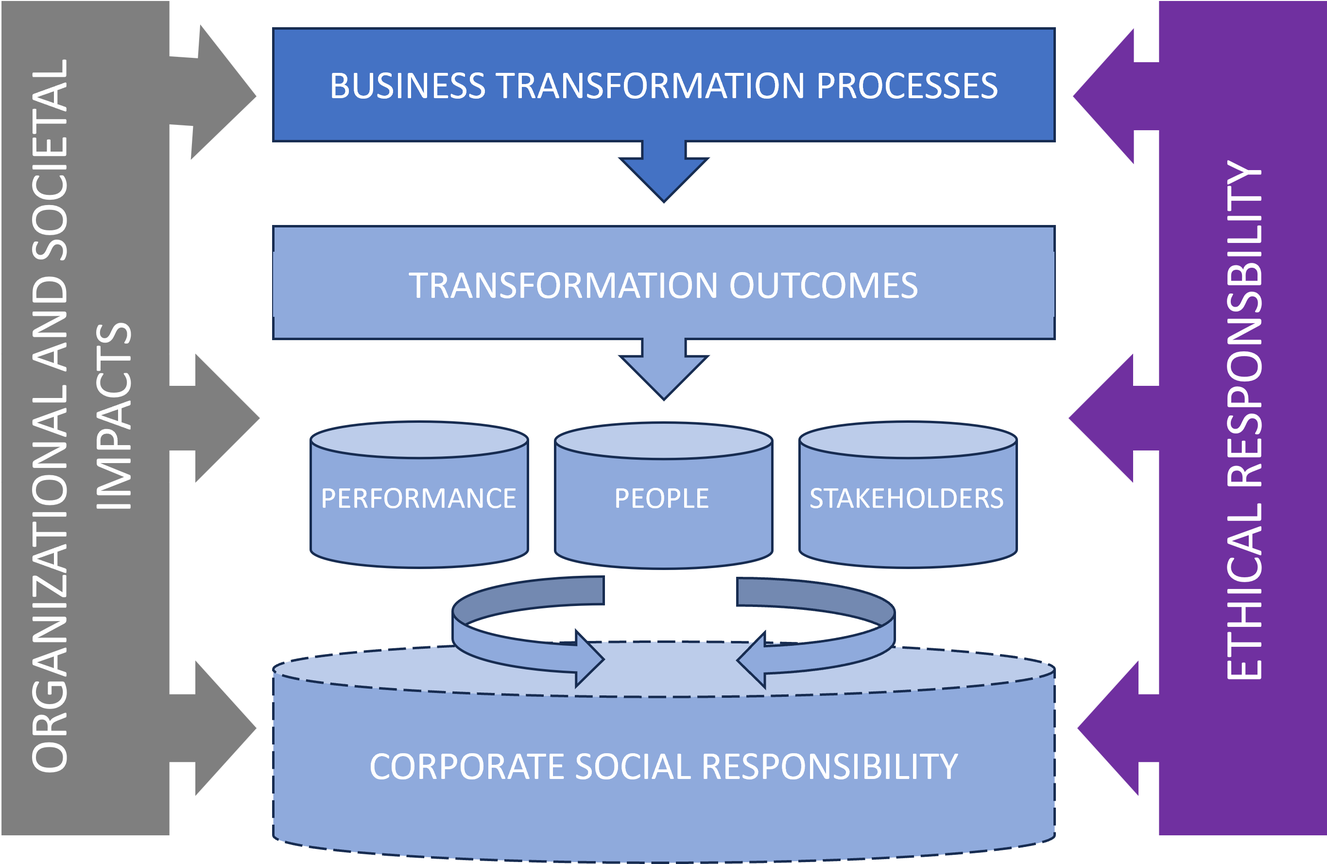
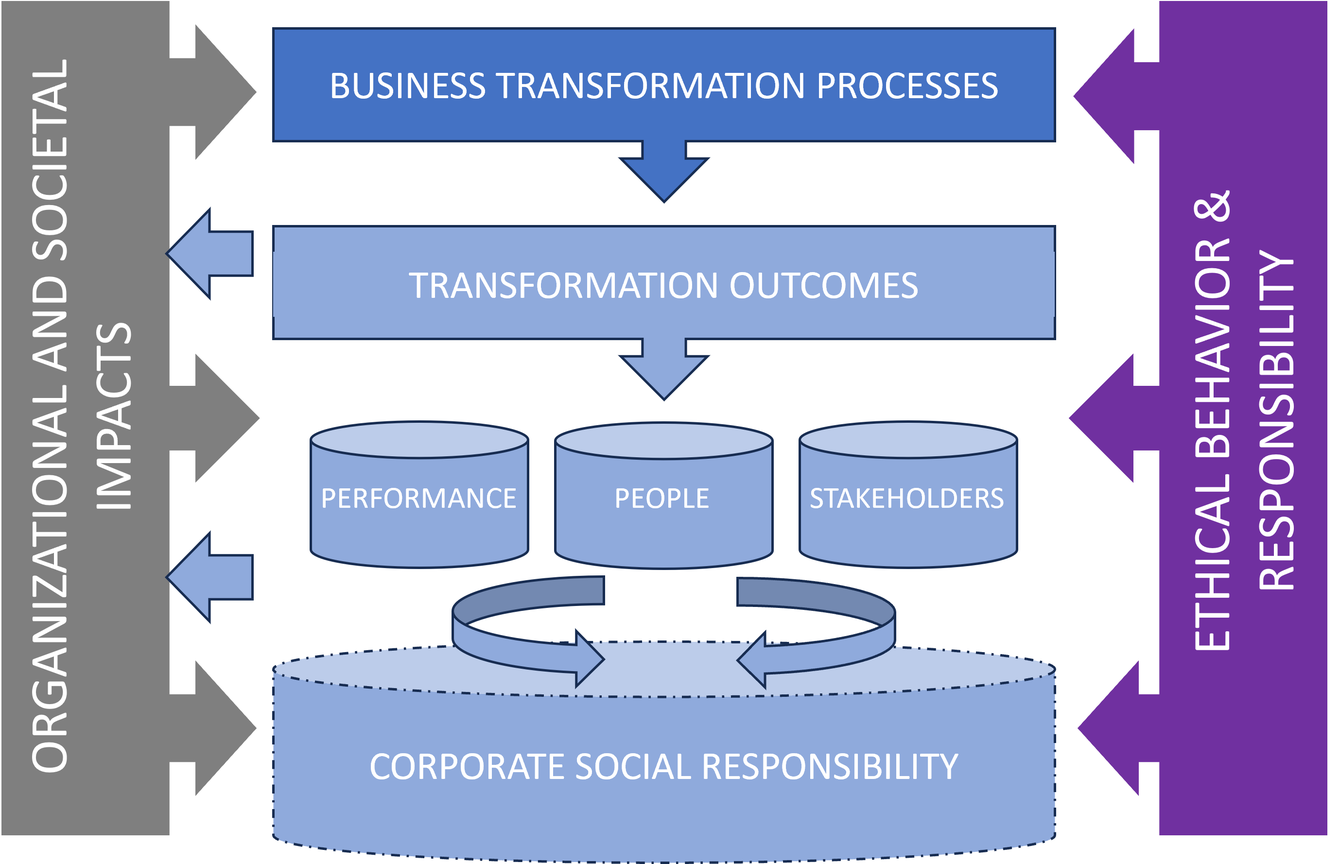
Add rewrite article

diff --git a/public/posts/the-value-of-ethics-as-a-driver-of-business-transformation/index.html b/public/posts/the-value-of-ethics-as-a-driver-of-business-transformation/index.html
@@ -145,57 +145,59 @@
       
     </div>
     <div class="content">
-      <p><strong>Ethical considerations arising from business transformation often go unnoticed by transformational leaders, and even more so by the ICT industry and other key stakeholders who should pay attention to this key driver of transformation.</strong></p>
-<p>However, ethical behavior in business transformation, as in other complex decision-making environments, plays a fundamental role in achieving the expected results and establishing solid foundations on which to build a robust and smooth transformation.</p>
-<p>Through proper examination of the ethical considerations that arise from transformation, transformational leaders can gain new perspectives to understand both the transformation processes themselves and the new organizational and societal impacts that are emerging (Fig.1)</p>
+      <p><strong>Ethical considerations arising from business transformation often go unnoticed by transformational leaders, let alone by the ICT industry and other stakeholders who should pay close attention to this key driver of transformation.</strong></p>
+<p>As elusive as it often seems, ethical behavior and responsibility in business transformation, as in other complex decision-making environments, play a crucial role in helping organizations achieve their business goals and establish a solid foundation on which to build a fluid transformation flow.</p>
+<p>By properly examining the ethical considerations that arise from business transformation, transformational leaders can gain new perspectives to understand both the transformation processes themselves and the new organizational and societal impacts that are emerging as a result of transformation (Fig. 1).</p>
 <img src="index_files/the-value-of-ethics-1.png" alt="Ethical responsibility"/>
-<p>Fig.1 Ethical responsibility within the framework of business transformation (Source: own elaboration)</p>
+<p>Fig.1 The ethical dimension within the framework of business transformation (Source: own elaboration)</p>
 <h2 id="ethics-in-the-era-of-data">Ethics in the Era of Data</h2>
 <p>The importance of ethics becomes more apparent as business transformation becomes more and more data-driven, extends to an ever-increasing number of actors, and becomes deeper and irreversible for most organizations.</p>
-<p>The massive adoption of data by organizations in virtually every industry and the implementation of smart technologies are factors that will drive innovation and support competitive advantage. However, these profound transformation processes are beginning to raise ethical questions that can undermine the credibility of many organizations and call into question the way they are carrying out their transformation roadmap, with its consequential negative impact on performance and results.</p>
+<p>The massive adoption of data by organizations in virtually every industry and the implementation of smart technologies are factors that will drive innovation and support competitive advantage.</p>
+<p>However, these profound transformation processes are beginning to raise ethical issues that, if not adequately addressed, can undermine the credibility of many organizations and call into question the way in which they implement their transformation roadmap, with the consequent negative impact on performance and results.</p>
 <blockquote>
-<p>Failing to address the ethical consideration of transformation can undermine the credibility of many organizations</p>
+<p>Failing to address the ethical considerations of transformation can undermine the credibility of many organizations</p>
 </blockquote>
-<p>Transformational leaders must begin to answer questions like, how are fundamental values such as privacy, security, equality, transparency, and autonomy going to be affected in a world dominated by Big Data and smart technologies? Should some data be a public good? To what extent will consumers be willing to reveal personal data in exchange for making society safer and more efficient?</p>
-<p>Whatever the answers, the bottom line is that transformational leaders need to start deciding how they plan to implement ethical practices within the organization (e.g., ethical Big Data, ethical analytics, ethical AI) and how they are going to be communicated both within and outside the organization.</p>
-<p>Consequently, ethics should be seen as a complementary approach that helps transformational leaders to envision multifaceted perspectives of transformation processes, while being aware that it is a phenomenon that has not yet been studied in depth.</p>
-<p>This does not mean that ethics should be used as a safeguard against the way data-driven transformation is taking place, but rather as an additional dimension that should help organizations strike a better balance between the elements that drive change and those that sustain performance over time.</p>
+<p>Transformational leaders must begin to answer questions like: How are fundamental values such as privacy, security, equality, transparency, and autonomy going to be affected in a world dominated by Big Data and smart technologies? Should some data be a public good? To what extent will consumers be willing to reveal personal data in exchange for making society/business safer and more efficient?</p>
+<p>Whatever the answers, the bottom line is that transformational leaders need to start deciding how they plan to implement ethical practices within the organization (e.g., ethical Big Data, ethical analytics, ethical AI) and how these practices are going to be communicated both within and outside the organization.</p>
+<p>Ultimately, ethics should not be viewed as a burden to be met, but as a complementary approach that will help transformational leaders envision new, multifaceted perspectives on transformation processes. In other words, the above does not mean that ethics should be used as a safeguard against the way (data-driven) transformation is taking place, but rather as an additional dimension that should help organizations strike a better balance between the elements that drive change and those that sustain performance over time.</p>
 <blockquote>
-<p>Ethics should be seen as a complementary approach that helps transformational leaders to envision multifaceted perspectives of transformation</p>
+<p>Ethics should be seen as a complementary approach that helps transformational leaders envision multifaceted perspectives of transformation</p>
 </blockquote>
 <h2 id="ethics-and-employees">Ethics and Employees</h2>
-<p>A key aspect that transformational leaders must pay attention to when dealing with the ethical aspects derived from transformation is the relationship that exists between them and the organization&rsquo;s employees.</p>
+<p>A key aspect that transformational leaders must pay attention to when addressing the ethical considerations that arise from transformation is the relationship that exists between them and the employees of the organization.</p>
 <p>Transformational leaders must strive to ensure that business objectives do not conflict with the moral views of their employees, even though this may sometimes be contradictory to the company&rsquo;s own financial objectives.</p>
-<p>Transformational leaders must seek to align business model decisions with employee values and principles, as well as keep all the capabilities offered by data and smart technologies on the same ethical plane as those who are their users.</p>
-<p>To illustrate the relevance of this topic, take the case of Google and see how the company changed its well-known motto &ldquo;Don&rsquo;t be evil&rdquo; in the 2018 Code of Ethics revision to its equally popular statement: &ldquo;And remember &hellip; don&rsquo;t be evil and if you see something that you think isn&rsquo;t right &ndash; speak up!&rdquo;</p>
+<p>Transformational leaders must seek to align business model decisions with employee values and principles, as well as keep all the capabilities offered by data and smart technologies on the same ethical plane as those of their users.</p>
+<p>To illustrate the relevance of this topic, take the case of Google and see how the company changed its well-known motto “Don’t be evil” in the 2018 Code of Ethics revision to its equally popular statement: “And remember … don’t be evil and if you see something that you think isn’t right – speak up!”</p>
 <p>Despite this powerful claim, the tech company has been criticized many times in recent years by US regulators and its broad community of critics for the way key ethical issues are handled at the corporate level and by its employees.</p>
 <blockquote>
-<p>Transformational leaders must seek to align business model decisions with employee values and principles at all times</p>
+<p>Transformational leaders will seek to align business model decisions with employee values and principles at all times</p>
 </blockquote>
 <h2 id="ethics-and-performance">Ethics and Performance</h2>
-<p>As the business environment becomes more complex, the possibility for a company to maintain full control over its level of performance becomes a challenge. In this context, ethics plays a key role as it can guide transformational leaders in designing and using new technologies and processes that make it easier to achieve short-term goals, while sustaining the company&rsquo;s performance level in the long term.</p>
-<p>For example, some companies may try to increase their proximity to the customer and personalize their experiences by anticipating latent preferences that are not always made explicit through primary and secondary data sources. Although these practices may be profitable for the company&rsquo;s performance in the short term, they are sometimes shown to be undesirable, not because they are illegal, but because some stakeholders consider them morally reprehensible.</p>
+<p>As the business environment becomes more complex, the possibility for a company to maintain full control over its level of performance becomes a challenge. In this context, ethics can guide transformational leaders in the design and use of new technologies and processes that facilitate the achievement of business objectives in the short term, while maintaining the company&rsquo;s level of performance in the long term.</p>
+<p>For example, some companies may try to increase their proximity to the customer and personalize their experiences by anticipating latent preferences that are not always made explicit through primary and secondary data sources. Although these practices may be profitable for the company’s performance in the short term, they are sometimes shown to be undesirable in the long term, not because they are illegal, but because some stakeholders consider them morally reprehensible.</p>
 <blockquote>
-<p>Ethics plays a key role so that transformational leaders can more easily achieve short- and long-term objectives.</p>
+<p>Ethics plays a key role in enabling transformational leaders to more easily achieve short- and long-term business goals</p>
 </blockquote>
 <p>Therefore, transformational leaders must remain vigilant to these risks, as customers and other stakeholders are bound to become critical if certain moral values are violated. In addition, it is important for companies to demonstrate that they are using data responsibly and are not only focused on the business case.</p>
-<p>To properly assess ethical risks, every transformational leader must begin by taking the customer&rsquo;s point of view and asking themselves: Would the customer agree to disclose their data if they knew exactly what was being done with it? What are the possible benefits that customers would be willing to accept to provide their data ?</p>
-<p>Ultimately, transformational leaders must review the ethical foundations currently in force in their organizations (for example, corporate social responsibility) in light of business transformation, incorporating new areas of interest such as ethical performance, data governance, etc. By doing so, companies will gain a much more complete and rich understanding of the transformation phenomenon that will surely allow them to approach the process more successfully.</p>
+<p>To properly assess ethical risks, every transformational leader should begin by taking the customer&rsquo;s point of view and asking themselves: Would the customer agree to disclose their data if they knew exactly what was being done with it? What are the possible benefits that customers would be willing to accept to provide their data ?</p>
+<p>Ultimately, transformational leaders must review the ethical foundations currently in force in their organizations (i.e., corporate social responsibility) in light of business transformation, incorporating new areas of interest such as ethical performance, data governance, etc. By doing so, companies will gain a much more complete and rich understanding of the transformation phenomenon that will surely allow them to approach the change process more successfully.</p>
 <blockquote>
 <p>Transformational leaders must review the ethical foundations currently in force in their organizations in light of business transformation</p>
 </blockquote>
 <h2 id="ethics-and-stakeholders">Ethics and Stakeholders</h2>
 <p>As value creation networks increase in complexity, companies must satisfy the multiple, sometimes contradictory, demands of value co-creators. This issue becomes even more apparent in digital ecosystems such as platforms that, by definition, rely on multiple parties and for which data is at the core of their competitive value proposition.</p>
 <p>Transformational leaders must develop the ability to balance the demands of multiple parties, without compromising the performance of the company or its ability to maintain its competitive advantages over time.</p>
-<p>At times this may require the company to redefine perceptions of what is considered right and wrong. For example, for a platform owner, an ethical challenge may be how to ensure that one party&rsquo;s demands are not met at the expense of others (i.e., if the platform grants access to the data to one party, then the other party should not perceive it as a breach of security and privacy).</p>
+<p>At times this may require the company to redefine perceptions of what is considered right and wrong. For example, for a platform owner, an ethical challenge may be how to ensure that one party’s demands are not met at the expense of others (i.e., if the platform grants access to the data to one party, then the other party should not perceive it as a breach of security and privacy).</p>
 <blockquote>
-<p>Transformational leaders must develop the ability to balance the demands of multiple parties, without compromising the performance of the company</p>
+<p>Transformational leaders must develop the ability to balance the demands of multiple parties, without compromising the overall performance of the company</p>
 </blockquote>
 <h2 id="conclusion">Conclusion</h2>
-<p>The ethical behavior of transformational leaders and people in relation to business transformation has been little studied to date, and there are still many decisions that affect transformation processes whose impact on the results and performance of organizations lacks adequate ethical understanding.</p>
-<p>Most research on transformation in business organizations has focused on the effects it has on innovations, performance, and the factors that affect its adoption among users and consumers, or how it can become a source of competitive advantage. However, most innovations produced by transformation have social and individual impacts of an ethical nature that are much broader and go far beyond simple statements and that transformational leaders must carefully consider.</p>
-<p>If you do not dedicate the necessary attention and the necessary resources that ethics demands, you do not do it with the right approach, or you simply do not do it at the right time, you will see how it has a strong negative impact on the results of your organization.</p>
-<p>Ethics cannot be a matter of trial and error to find the broadest possible limits to impose a business vision, but rather it must be originally incorporated into the transformation plans of organizations by design, putting first the vision of customers, employees, and stakeholders. If you think about sustaining results in the long term, this is the right way to go.</p>
+<p>Ethical considerations in the context of business transformation and the ethical behavior of transformational leaders is a subject that has been little studied to date. In fact, there are still many decisions that affect transformation processes whose impact on the results and performance of organizations lacks an adequate ethical understanding.</p>
+<p>Most research on transformation in business organizations has focused on the effects it has on innovations, performance, and the factors that affect its adoption among users and consumers, or how it can become a source of competitive advantage.</p>
+<p>Nevertheless, most innovations produced by transformation have social and individual impacts of an ethical nature that are much broader and go far beyond simple statements and that transformational leaders must carefully consider.</p>
+<p>If transformational leaders don&rsquo;t commit the necessary attention and resources that ethics demands, don&rsquo;t do it with the right focus, or just don&rsquo;t do it at the right time, they will find ethics becoming an issue with a strong negative impact on organizational results.</p>
+<p>Ethics cannot be a matter of trial and error to find the broadest possible limits to impose a particular business vision regardless of customers, people and stakeholders, but rather it must be originally incorporated into the transformation plans of organizations by design, putting first the vision of customers, people, and stakeholders.</p>
+<p>If you as a trasformational leader think about sustaining results in the long term, this is the right way to go.</p>
 <p style= "font-size:10px;">Photo by <a href="https://www.freepik.es/foto-gratis/naturaleza-muerta-que-ilustra-concepto-etica_26407570.htm#page=2&query=ethics&position=49&from_view=search&track=sph" target="_blank">Freepik</a></p>
 
     </div>
@@ -209,14 +211,14 @@
   </div>
 </a>
 
-<a class="resp-sharing-button__link" href="https://www.linkedin.com/shareArticle?mini=true&amp;url=https%3a%2f%2ffrontiersinbusinesstransformation.com%2fposts%2fthe-value-of-ethics-as-a-driver-of-business-transformation%2f&amp;title=The%20Value%20of%20Ethics%20as%20a%20Driver%20of%20Business%20Transformation&amp;summary=Ethical%20considerations%20arising%20from%20business%20transformation%20often%20go%20unnoticed%20by%20transformational%20leaders%2c%20and%20even%20more%20so%20by%20the%20ICT%20industry%20and%20other%20key%20stakeholders%20who%20should%20pay%20attention%20to%20this%20key%20driver%20of%20transformation.%0aHowever%2c%20ethical%20behavior%20in%20business%20transformation%2c%20as%20in%20other%20complex%20decision-making%20environments%2c%20plays%20a%20fundamental%20role%20in%20achieving%20the%20expected%20results%20and%20establishing%20solid%20foundations%20on%20which%20to%20build%20a%20robust%20and%20smooth%20transformation.%0aThrough%20proper%20examination%20of%20the%20ethical%20considerations%20that%20arise%20from%20transformation%2c%20transformational%20leaders%20can%20gain%20new%20perspectives%20to%20understand%20both%20the%20transformation%20processes%20themselves%20and%20the%20new%20organizational%20and%20societal%20impacts%20that%20are%20emerging%20%28Fig.&amp;source=https%3A%2F%2Ffrontiersinbusinesstransformation.com%2F" target="_blank" rel="noopener" aria-label="">
+<a class="resp-sharing-button__link" href="https://www.linkedin.com/shareArticle?mini=true&amp;url=https%3a%2f%2ffrontiersinbusinesstransformation.com%2fposts%2fthe-value-of-ethics-as-a-driver-of-business-transformation%2f&amp;title=The%20Value%20of%20Ethics%20as%20a%20Driver%20of%20Business%20Transformation&amp;summary=Ethical%20considerations%20arising%20from%20business%20transformation%20often%20go%20unnoticed%20by%20transformational%20leaders%2c%20let%20alone%20by%20the%20ICT%20industry%20and%20other%20stakeholders%20who%20should%20pay%20close%20attention%20to%20this%20key%20driver%20of%20transformation.%0aAs%20elusive%20as%20it%20often%20seems%2c%20ethical%20behavior%20and%20responsibility%20in%20business%20transformation%2c%20as%20in%20other%20complex%20decision-making%20environments%2c%20play%20a%20crucial%20role%20in%20helping%20organizations%20achieve%20their%20business%20goals%20and%20establish%20a%20solid%20foundation%20on%20which%20to%20build%20a%20fluid%20transformation%20flow.&amp;source=https%3A%2F%2Ffrontiersinbusinesstransformation.com%2F" target="_blank" rel="noopener" aria-label="">
   <div class="resp-sharing-button resp-sharing-button--linkedin resp-sharing-button--small"><div aria-hidden="true" class="resp-sharing-button__icon resp-sharing-button__icon--solid">
     <svg xmlns="http://www.w3.org/2000/svg" viewBox="0 0 24 24"><path d="M6.5 21.5h-5v-13h5v13zM4 6.5C2.5 6.5 1.5 5.3 1.5 4s1-2.4 2.5-2.4c1.6 0 2.5 1 2.6 2.5 0 1.4-1 2.5-2.6 2.5zm11.5 6c-1 0-2 1-2 2v7h-5v-13h5V10s1.6-1.5 4-1.5c3 0 5 2.2 5 6.3v6.7h-5v-7c0-1-1-2-2-2z"/></svg>
     </div>
   </div>
 </a>
 
-<a class="resp-sharing-button__link" href="mailto:?subject=Read the article The%20Value%20of%20Ethics%20as%20a%20Driver%20of%20Business%20Transformation&amp;body=I found the article titled The%20Value%20of%20Ethics%20as%20a%20Driver%20of%20Business%20Transformation in https://frontiersinbusinesstransformation.com/. This is the summary:Ethical%20considerations%20arising%20from%20business%20transformation%20often%20go%20unnoticed%20by%20transformational%20leaders%2c%20and%20even%20more%20so%20by%20the%20ICT%20industry%20and%20other%20key%20stakeholders%20who%20should%20pay%20attention%20to%20this%20key%20driver%20of%20transformation.%0aHowever%2c%20ethical%20behavior%20in%20business%20transformation%2c%20as%20in%20other%20complex%20decision-making%20environments%2c%20plays%20a%20fundamental%20role%20in%20achieving%20the%20expected%20results%20and%20establishing%20solid%20foundations%20on%20which%20to%20build%20a%20robust%20and%20smooth%20transformation.%0aThrough%20proper%20examination%20of%20the%20ethical%20considerations%20that%20arise%20from%20transformation%2c%20transformational%20leaders%20can%20gain%20new%20perspectives%20to%20understand%20both%20the%20transformation%20processes%20themselves%20and%20the%20new%20organizational%20and%20societal%20impacts%20that%20are%20emerging%20%28Fig." target="_self" rel="noopener" aria-label="">
+<a class="resp-sharing-button__link" href="mailto:?subject=Read the article The%20Value%20of%20Ethics%20as%20a%20Driver%20of%20Business%20Transformation&amp;body=I found the article titled The%20Value%20of%20Ethics%20as%20a%20Driver%20of%20Business%20Transformation in https://frontiersinbusinesstransformation.com/. This is the summary:Ethical%20considerations%20arising%20from%20business%20transformation%20often%20go%20unnoticed%20by%20transformational%20leaders%2c%20let%20alone%20by%20the%20ICT%20industry%20and%20other%20stakeholders%20who%20should%20pay%20close%20attention%20to%20this%20key%20driver%20of%20transformation.%0aAs%20elusive%20as%20it%20often%20seems%2c%20ethical%20behavior%20and%20responsibility%20in%20business%20transformation%2c%20as%20in%20other%20complex%20decision-making%20environments%2c%20play%20a%20crucial%20role%20in%20helping%20organizations%20achieve%20their%20business%20goals%20and%20establish%20a%20solid%20foundation%20on%20which%20to%20build%20a%20fluid%20transformation%20flow." target="_self" rel="noopener" aria-label="">
   <div class="resp-sharing-button resp-sharing-button--email resp-sharing-button--small"><div aria-hidden="true" class="resp-sharing-button__icon resp-sharing-button__icon--solid">
     <svg xmlns="http://www.w3.org/2000/svg" viewBox="0 0 24 24"><path d="M22 4H2C.9 4 0 4.9 0 6v12c0 1.1.9 2 2 2h20c1.1 0 2-.9 2-2V6c0-1.1-.9-2-2-2zM7.25 14.43l-3.5 2c-.08.05-.17.07-.25.07-.17 0-.34-.1-.43-.25-.14-.24-.06-.55.18-.68l3.5-2c.24-.14.55-.06.68.18.14.24.06.55-.18.68zm4.75.07c-.1 0-.2-.03-.27-.08l-8.5-5.5c-.23-.15-.3-.46-.15-.7.15-.22.46-.3.7-.14L12 13.4l8.23-5.32c.23-.15.54-.08.7.15.14.23.07.54-.16.7l-8.5 5.5c-.08.04-.17.07-.27.07zm8.93 1.75c-.1.16-.26.25-.43.25-.08 0-.17-.02-.25-.07l-3.5-2c-.24-.13-.32-.44-.18-.68s.44-.32.68-.18l3.5 2c.24.13.32.44.18.68z"/></svg>
     </div>

diff --git a/content/posts/the-value-of-ethics-as-a-driver-of-business-transformation/index.md b/content/posts/the-value-of-ethics-as-a-driver-of-business-transformation/index.md
@@ -7,62 +7,62 @@ image: images/the-value-of-ethics.png
 tags:
 - Ethics
 ---
+**Ethical considerations arising from business transformation often go unnoticed by transformational leaders, let alone by the ICT industry and other stakeholders who should pay close attention to this key driver of transformation.**
 
-**Ethical considerations arising from business transformation often go unnoticed by transformational leaders, and even more so by the ICT industry and other key stakeholders who should pay attention to this key driver of transformation.**
+As elusive as it often seems, ethical behavior and responsibility in business transformation, as in other complex decision-making environments, play a crucial role in helping organizations achieve their business goals and establish a solid foundation on which to build a fluid transformation flow.
 
-However, ethical behavior in business transformation, as in other complex decision-making environments, plays a fundamental role in achieving the expected results and establishing solid foundations on which to build a robust and smooth transformation.
+By properly examining the ethical considerations that arise from business transformation, transformational leaders can gain new perspectives to understand both the transformation processes themselves and the new organizational and societal impacts that are emerging as a result of transformation (Fig. 1).
 
-Through proper examination of the ethical considerations that arise from transformation, transformational leaders can gain new perspectives to understand both the transformation processes themselves and the new organizational and societal impacts that are emerging (Fig.1)
 
 <img src="index_files/the-value-of-ethics-1.png" alt="Ethical responsibility"/>
 
-Fig.1 Ethical responsibility within the framework of business transformation (Source: own elaboration)
+Fig.1 The ethical dimension within the framework of business transformation (Source: own elaboration)
 
 ## Ethics in the Era of Data
 
 The importance of ethics becomes more apparent as business transformation becomes more and more data-driven, extends to an ever-increasing number of actors, and becomes deeper and irreversible for most organizations.
 
-The massive adoption of data by organizations in virtually every industry and the implementation of smart technologies are factors that will drive innovation and support competitive advantage. However, these profound transformation processes are beginning to raise ethical questions that can undermine the credibility of many organizations and call into question the way they are carrying out their transformation roadmap, with its consequential negative impact on performance and results.
+The massive adoption of data by organizations in virtually every industry and the implementation of smart technologies are factors that will drive innovation and support competitive advantage. 
 
-> Failing to address the ethical consideration of transformation can undermine the credibility of many organizations
+However, these profound transformation processes are beginning to raise ethical issues that, if not adequately addressed, can undermine the credibility of many organizations and call into question the way in which they implement their transformation roadmap, with the consequent negative impact on performance and results.
 
-Transformational leaders must begin to answer questions like, how are fundamental values such as privacy, security, equality, transparency, and autonomy going to be affected in a world dominated by Big Data and smart technologies? Should some data be a public good? To what extent will consumers be willing to reveal personal data in exchange for making society safer and more efficient?
+> Failing to address the ethical considerations of transformation can undermine the credibility of many organizations
 
-Whatever the answers, the bottom line is that transformational leaders need to start deciding how they plan to implement ethical practices within the organization (e.g., ethical Big Data, ethical analytics, ethical AI) and how they are going to be communicated both within and outside the organization.
+Transformational leaders must begin to answer questions like: How are fundamental values such as privacy, security, equality, transparency, and autonomy going to be affected in a world dominated by Big Data and smart technologies? Should some data be a public good? To what extent will consumers be willing to reveal personal data in exchange for making society/business safer and more efficient?
 
-Consequently, ethics should be seen as a complementary approach that helps transformational leaders to envision multifaceted perspectives of transformation processes, while being aware that it is a phenomenon that has not yet been studied in depth.
+Whatever the answers, the bottom line is that transformational leaders need to start deciding how they plan to implement ethical practices within the organization (e.g., ethical Big Data, ethical analytics, ethical AI) and how these practices are going to be communicated both within and outside the organization.
 
-This does not mean that ethics should be used as a safeguard against the way data-driven transformation is taking place, but rather as an additional dimension that should help organizations strike a better balance between the elements that drive change and those that sustain performance over time.
+Ultimately, ethics should not be viewed as a burden to be met, but as a complementary approach that will help transformational leaders envision new, multifaceted perspectives on transformation processes. In other words, the above does not mean that ethics should be used as a safeguard against the way (data-driven) transformation is taking place, but rather as an additional dimension that should help organizations strike a better balance between the elements that drive change and those that sustain performance over time.
 
-> Ethics should be seen as a complementary approach that helps transformational leaders to envision multifaceted perspectives of transformation
+> Ethics should be seen as a complementary approach that helps transformational leaders envision multifaceted perspectives of transformation
 
 ## Ethics and Employees
 
-A key aspect that transformational leaders must pay attention to when dealing with the ethical aspects derived from transformation is the relationship that exists between them and the organization's employees.
+A key aspect that transformational leaders must pay attention to when addressing the ethical considerations that arise from transformation is the relationship that exists between them and the employees of the organization.
 
 Transformational leaders must strive to ensure that business objectives do not conflict with the moral views of their employees, even though this may sometimes be contradictory to the company's own financial objectives.
 
-Transformational leaders must seek to align business model decisions with employee values and principles, as well as keep all the capabilities offered by data and smart technologies on the same ethical plane as those who are their users.
+Transformational leaders must seek to align business model decisions with employee values and principles, as well as keep all the capabilities offered by data and smart technologies on the same ethical plane as those of their users.
 
-To illustrate the relevance of this topic, take the case of Google and see how the company changed its well-known motto "Don't be evil" in the 2018 Code of Ethics revision to its equally popular statement: "And remember ... don't be evil and if you see something that you think isn't right -- speak up!"
+To illustrate the relevance of this topic, take the case of Google and see how the company changed its well-known motto “Don’t be evil” in the 2018 Code of Ethics revision to its equally popular statement: “And remember … don’t be evil and if you see something that you think isn’t right – speak up!”
 
 Despite this powerful claim, the tech company has been criticized many times in recent years by US regulators and its broad community of critics for the way key ethical issues are handled at the corporate level and by its employees.
 
-> Transformational leaders must seek to align business model decisions with employee values and principles at all times
+> Transformational leaders will seek to align business model decisions with employee values and principles at all times
 
 ## Ethics and Performance
 
-As the business environment becomes more complex, the possibility for a company to maintain full control over its level of performance becomes a challenge. In this context, ethics plays a key role as it can guide transformational leaders in designing and using new technologies and processes that make it easier to achieve short-term goals, while sustaining the company's performance level in the long term.
+As the business environment becomes more complex, the possibility for a company to maintain full control over its level of performance becomes a challenge. In this context, ethics can guide transformational leaders in the design and use of new technologies and processes that facilitate the achievement of business objectives in the short term, while maintaining the company's level of performance in the long term. 
 
-For example, some companies may try to increase their proximity to the customer and personalize their experiences by anticipating latent preferences that are not always made explicit through primary and secondary data sources. Although these practices may be profitable for the company's performance in the short term, they are sometimes shown to be undesirable, not because they are illegal, but because some stakeholders consider them morally reprehensible.
+For example, some companies may try to increase their proximity to the customer and personalize their experiences by anticipating latent preferences that are not always made explicit through primary and secondary data sources. Although these practices may be profitable for the company’s performance in the short term, they are sometimes shown to be undesirable in the long term, not because they are illegal, but because some stakeholders consider them morally reprehensible.
 
-> Ethics plays a key role so that transformational leaders can more easily achieve short- and long-term objectives.
+> Ethics plays a key role in enabling transformational leaders to more easily achieve short- and long-term business goals
 
 Therefore, transformational leaders must remain vigilant to these risks, as customers and other stakeholders are bound to become critical if certain moral values are violated. In addition, it is important for companies to demonstrate that they are using data responsibly and are not only focused on the business case.
 
-To properly assess ethical risks, every transformational leader must begin by taking the customer's point of view and asking themselves: Would the customer agree to disclose their data if they knew exactly what was being done with it? What are the possible benefits that customers would be willing to accept to provide their data ?
+To properly assess ethical risks, every transformational leader should begin by taking the customer's point of view and asking themselves: Would the customer agree to disclose their data if they knew exactly what was being done with it? What are the possible benefits that customers would be willing to accept to provide their data ?
 
-Ultimately, transformational leaders must review the ethical foundations currently in force in their organizations (for example, corporate social responsibility) in light of business transformation, incorporating new areas of interest such as ethical performance, data governance, etc. By doing so, companies will gain a much more complete and rich understanding of the transformation phenomenon that will surely allow them to approach the process more successfully.
+Ultimately, transformational leaders must review the ethical foundations currently in force in their organizations (i.e., corporate social responsibility) in light of business transformation, incorporating new areas of interest such as ethical performance, data governance, etc. By doing so, companies will gain a much more complete and rich understanding of the transformation phenomenon that will surely allow them to approach the change process more successfully.
 
 > Transformational leaders must review the ethical foundations currently in force in their organizations in light of business transformation
 
@@ -72,18 +72,22 @@ As value creation networks increase in complexity, companies must satisfy the mu
 
 Transformational leaders must develop the ability to balance the demands of multiple parties, without compromising the performance of the company or its ability to maintain its competitive advantages over time.
 
-At times this may require the company to redefine perceptions of what is considered right and wrong. For example, for a platform owner, an ethical challenge may be how to ensure that one party's demands are not met at the expense of others (i.e., if the platform grants access to the data to one party, then the other party should not perceive it as a breach of security and privacy).
+At times this may require the company to redefine perceptions of what is considered right and wrong. For example, for a platform owner, an ethical challenge may be how to ensure that one party’s demands are not met at the expense of others (i.e., if the platform grants access to the data to one party, then the other party should not perceive it as a breach of security and privacy).
 
-> Transformational leaders must develop the ability to balance the demands of multiple parties, without compromising the performance of the company
+> Transformational leaders must develop the ability to balance the demands of multiple parties, without compromising the overall performance of the company
 
 ## Conclusion
 
-The ethical behavior of transformational leaders and people in relation to business transformation has been little studied to date, and there are still many decisions that affect transformation processes whose impact on the results and performance of organizations lacks adequate ethical understanding.
+Ethical considerations in the context of business transformation and the ethical behavior of transformational leaders is a subject that has been little studied to date. In fact, there are still many decisions that affect transformation processes whose impact on the results and performance of organizations lacks an adequate ethical understanding.
 
-Most research on transformation in business organizations has focused on the effects it has on innovations, performance, and the factors that affect its adoption among users and consumers, or how it can become a source of competitive advantage. However, most innovations produced by transformation have social and individual impacts of an ethical nature that are much broader and go far beyond simple statements and that transformational leaders must carefully consider.
+Most research on transformation in business organizations has focused on the effects it has on innovations, performance, and the factors that affect its adoption among users and consumers, or how it can become a source of competitive advantage. 
 
-If you do not dedicate the necessary attention and the necessary resources that ethics demands, you do not do it with the right approach, or you simply do not do it at the right time, you will see how it has a strong negative impact on the results of your organization.
+Nevertheless, most innovations produced by transformation have social and individual impacts of an ethical nature that are much broader and go far beyond simple statements and that transformational leaders must carefully consider.
 
-Ethics cannot be a matter of trial and error to find the broadest possible limits to impose a business vision, but rather it must be originally incorporated into the transformation plans of organizations by design, putting first the vision of customers, employees, and stakeholders. If you think about sustaining results in the long term, this is the right way to go.
+If transformational leaders don't commit the necessary attention and resources that ethics demands, don't do it with the right focus, or just don't do it at the right time, they will find ethics becoming an issue with a strong negative impact on organizational results.
+
+Ethics cannot be a matter of trial and error to find the broadest possible limits to impose a particular business vision regardless of customers, people and stakeholders, but rather it must be originally incorporated into the transformation plans of organizations by design, putting first the vision of customers, people, and stakeholders. 
+
+If you as a trasformational leader think about sustaining results in the long term, this is the right way to go.
 
 <p style= "font-size:10px;">Photo by <a href="https://www.freepik.es/foto-gratis/naturaleza-muerta-que-ilustra-concepto-etica_26407570.htm#page=2&query=ethics&position=49&from_view=search&track=sph" target="_blank">Freepik</a></p>
